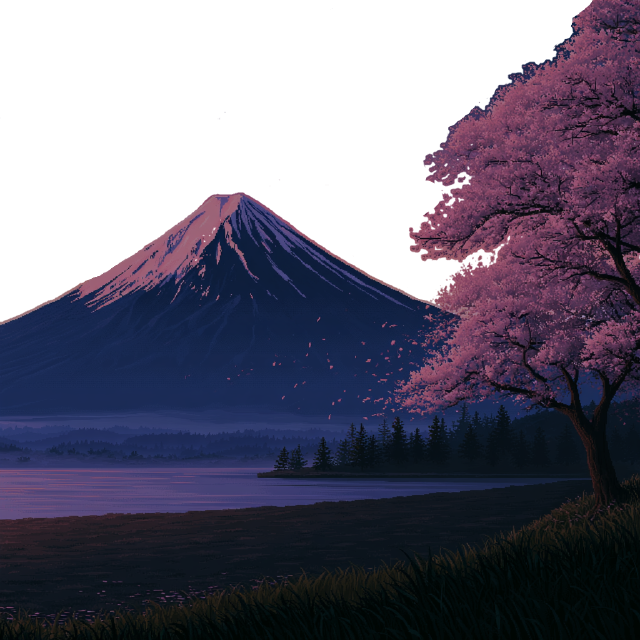
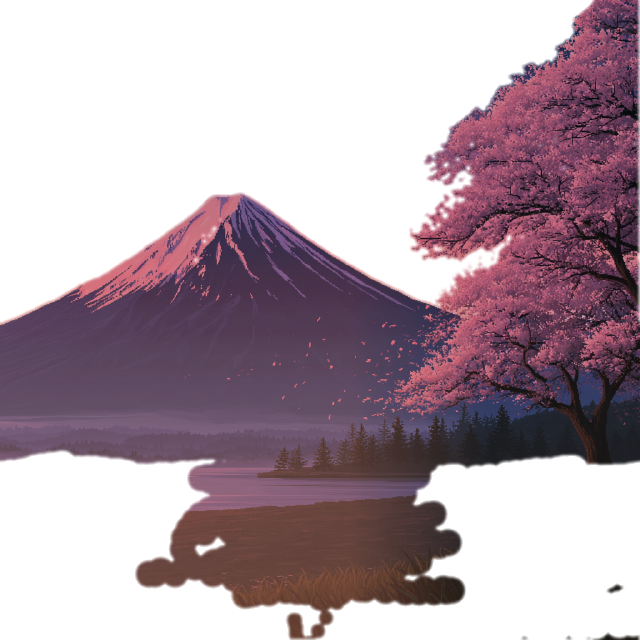
Mont fondu dans le crépuscule (perspective atmosphérique), bords adoucis, feuillage promu devant les fils

diff --git a/index.html b/index.html
@@ -263,6 +263,8 @@
 
   // mount Fuji and its sakura in the sky gap, behind the skyline and the flying events
   plane('assets/fuji_night.webp', 376, 45, 640, 640, -1.5);
+  // hand-picked pixels of the same layer promoted in front of the city, so the foliage covers the wires
+  plane('assets/fuji_front.webp', 376, 45, 640, 640, 0.5);
 
   // billboard on the left facade playing the Luffy loop, times-square style; street cables pass in front
   const luffyBez = new THREE.Mesh(new THREE.PlaneGeometry(41, 53), new THREE.MeshBasicMaterial({ color: 0x141026, transparent: true, depthWrite: false }));
